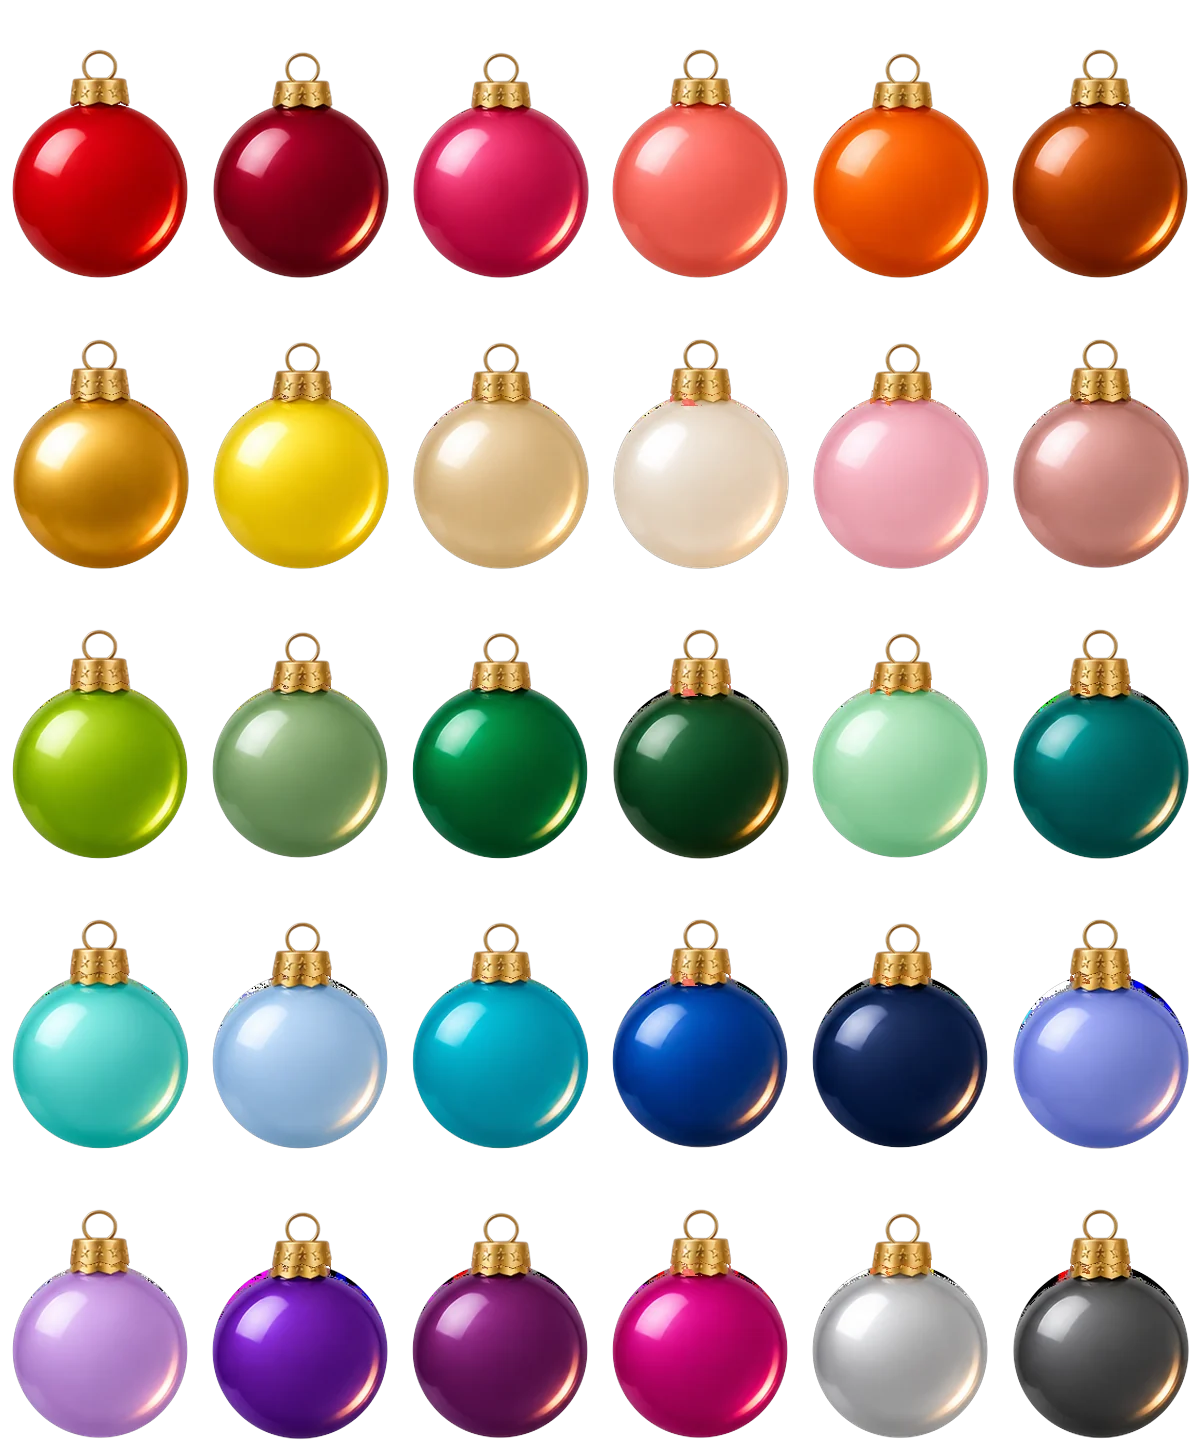
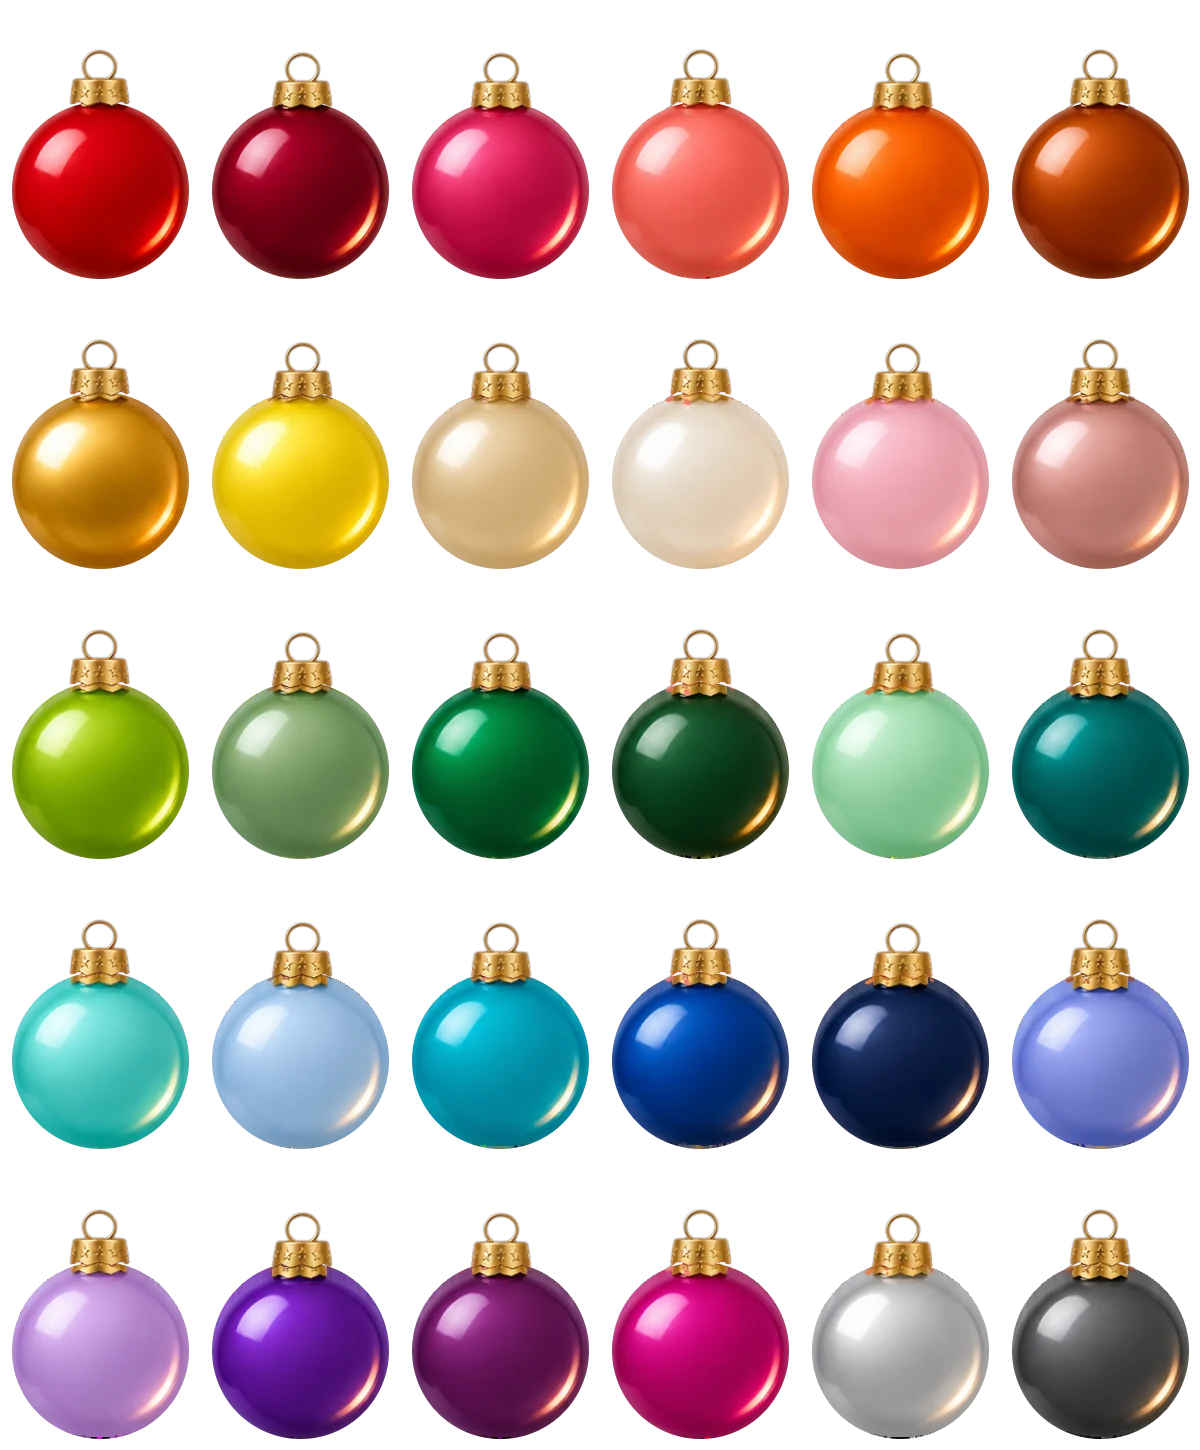
Шары: вырезаны заново из оригинала — чистый контур без шумов, целые колпачки
Claude-Session: https://claude.ai/code/session_01UEgtxx8V1bCmxFTpQJ3Ws7

diff --git a/xmas26/index.html b/xmas26/index.html
@@ -461,10 +461,10 @@ dialog{border:0;border-radius:24px;box-shadow:0 30px 80px rgba(0,0,0,.5);overflo
 .glb{display:flex;align-items:center;justify-content:center;width:clamp(48px,6.4vw,64px);aspect-ratio:1;border-radius:50%;background-size:cover;background-position:center;color:#0E0F12;font-family:var(--display);font-weight:700;font-size:clamp(17px,2.2vw,22px);box-shadow:inset -5px -6px 0 rgba(0,0,0,.16),0 0 18px rgba(245,197,66,.28),0 6px 12px rgba(0,0,0,.35)}
 .glb.c-red{background-color:#EF4444}.glb.c-gold{background-color:#F5C542}.glb.c-white{background-color:#FBF7EE}.glb.c-blue{background-color:#60A5FA}.glb.c-green{background-color:#4ADE80}
 .glb.big{width:132px;font-size:48px;align-self:center;box-shadow:inset -9px -11px 0 rgba(0,0,0,.14)}
-/* Шары-фото: 30 цветов из одного листа /xmas26/orn/balls.webp (6×5, ячейка 200×290, шар Ø180 по центру снизу, колпачок сверху).
+/* Шары-фото: 30 цветов из одного листа /xmas26/orn/balls.webp?v=2 (6×5, ячейка 200×290, шар Ø180 по центру снизу, колпачок сверху).
    Цвет шара — класс o0…o29; фото кладётся внутрь шара поверх стекла, буква — поверх всего. */
 .glb{--w:clamp(48px,6.4vw,64px);position:relative;z-index:0;width:var(--w);margin-top:calc(var(--w) * .47);background:none!important;box-shadow:none;color:#fff;font-size:calc(var(--w) * .36);text-shadow:0 1px 3px rgba(0,0,0,.5)}
-.glb::before{content:"";position:absolute;z-index:0;left:calc(var(--w) * -.0556);top:calc(var(--w) * -.5556);width:calc(var(--w) * 1.1111);height:calc(var(--w) * 1.6111);background:url(/xmas26/orn/balls.webp) no-repeat var(--bx) var(--by)/600% 500%;filter:drop-shadow(0 6px 10px rgba(0,0,0,.35));pointer-events:none}
+.glb::before{content:"";position:absolute;z-index:0;left:calc(var(--w) * -.0556);top:calc(var(--w) * -.5556);width:calc(var(--w) * 1.1111);height:calc(var(--w) * 1.6111);background:url(/xmas26/orn/balls.webp?v=2) no-repeat var(--bx) var(--by)/600% 500%;filter:drop-shadow(0 6px 10px rgba(0,0,0,.35));pointer-events:none}
 .glb.ph::after{content:"";position:absolute;z-index:1;inset:9%;border-radius:50%;background:radial-gradient(circle at 32% 26%,rgba(255,255,255,.6),rgba(255,255,255,0) 30%),var(--ph) center/cover;box-shadow:inset 0 0 0 2px rgba(255,255,255,.3),inset -5px -7px 12px rgba(0,0,0,.28)}
 .glb i{position:relative;z-index:2;font-style:normal;line-height:1}
 .glb.lt{color:#2A1A10;text-shadow:0 1px 0 rgba(255,255,255,.4)}
@@ -486,7 +486,7 @@ dialog{border:0;border-radius:24px;box-shadow:0 30px 80px rgba(0,0,0,.5);overflo
 .gldrop small{color:#52525B}
 .glcol{display:grid;grid-template-columns:repeat(10,minmax(0,1fr));gap:6px;margin-top:8px}
 .glcol button{position:relative;aspect-ratio:1;min-height:44px;padding:0;border-radius:12px;border:2px solid transparent;cursor:pointer;background:transparent;overflow:hidden;transition:background-color .2s,border-color .2s}
-.glcol button::before{content:"";position:absolute;left:14%;top:50%;width:72%;aspect-ratio:200/290;transform:translateY(-64.5%);background:url(/xmas26/orn/balls.webp) no-repeat var(--bx) var(--by)/600% 500%;transition:transform .2s}
+.glcol button::before{content:"";position:absolute;left:14%;top:50%;width:72%;aspect-ratio:200/290;transform:translateY(-64.5%);background:url(/xmas26/orn/balls.webp?v=2) no-repeat var(--bx) var(--by)/600% 500%;transition:transform .2s}
 .glcol button:hover::before{transform:translateY(-68%)}
 @media (max-width:420px){.glcol{grid-template-columns:repeat(6,minmax(0,1fr))}}
 .glcol button.on{border-color:#0E0F12;background-color:#EFE6D2}

diff --git a/xmas26/balls/index.html b/xmas26/balls/index.html
@@ -23,7 +23,7 @@ h1{margin:0;font:700 26px/1.1 Unbounded,sans-serif}
 .it{display:flex;gap:14px;align-items:center;background:#15171B;border:1px solid #2A2D35;border-radius:18px;padding:14px}
 .b{flex:none;width:72px;height:72px;border-radius:50%;background-size:cover;background-position:center;display:flex;align-items:center;justify-content:center;color:#0E0F12;font:700 26px Unbounded,sans-serif}
 .b{--w:72px;position:relative;z-index:0;margin-top:22px;background:none!important;color:#fff;text-shadow:0 1px 3px rgba(0,0,0,.5)}
-.b::before{content:"";position:absolute;z-index:0;left:-4px;top:-40px;width:80px;height:116px;background:url(/xmas26/orn/balls.webp) no-repeat var(--bx) var(--by)/600% 500%;pointer-events:none}
+.b::before{content:"";position:absolute;z-index:0;left:-4px;top:-40px;width:80px;height:116px;background:url(/xmas26/orn/balls.webp?v=2) no-repeat var(--bx) var(--by)/600% 500%;pointer-events:none}
 .b.ph::after{content:"";position:absolute;z-index:1;inset:9%;border-radius:50%;background:var(--ph) center/cover}
 .b i{position:relative;z-index:2;font-style:normal}.b.lt{color:#2A1A10;text-shadow:none}
 .o0,.o1,.o2,.o3,.o4,.o5,.o6,.o7,.o8,.o9,.o10,.o11,.o12,.o13,.o14,.o15,.o16,.o17,.o18,.o19,.o20,.o21,.o22,.o23,.o24,.o25,.o26,.o27,.o28,.o29{--bx:0%;--by:0%}
